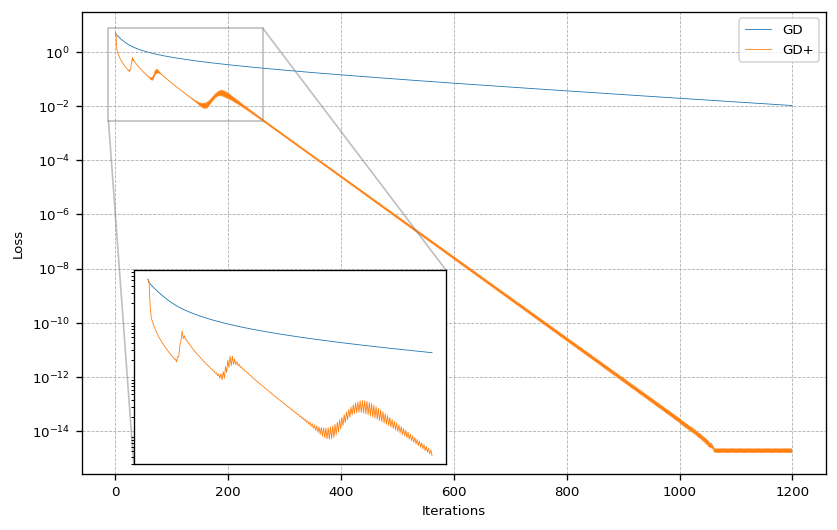
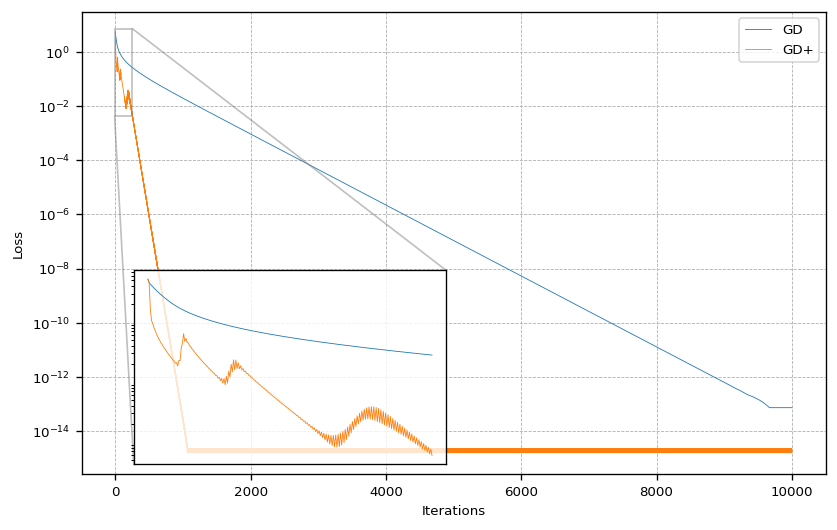
- Added better figures for results section - Removed typos

diff --git a/_posts/2020-12-19-adaptive-learning-rate-method.md b/_posts/2020-12-19-adaptive-learning-rate-method.md
@@ -1,7 +1,7 @@
 ---
 layout: post
 title: "An Adaptive Learning Rate Method for Gradient Descent Algorithms"
-date:   2020-12-19 17:30:00
+date:   2020-12-18 17:30:42
 ---
 
 **TL;DR**: Gradient information can be used to compute adaptive learning rates that allow gradient descent algorithms to converge much faster.
@@ -10,20 +10,18 @@ date:   2020-12-19 17:30:00
 
 ## Introduction 
 
-In this blog post I present an adaptive learning rate method for gradient descent optimization algorithms (to the best of my knowledge, this method has not yet been mentioned in the literature). 
+In this blog post I present an adaptive learning rate method for gradient descent optimization algorithms. To the best of my knowledge, this method has not yet been mentioned in the literature.
 
 The proposed technique uses gradient information that allow to either compute parameter-wise or global adaptive learning rates. In more detail, the learning rate is treated as a differentiable function allowing to propagate the loss information back to the learning rate where it can then be adjusted accordingly.
 
-The method can easily be applied to popular optimization algorithms such as Gradient Descent, Gradient Descent with Momentum, Nestrov Accelerated Gradient, ADAM, to name just a few. In a few simple experiments I show, that these optimization algorithm show better performance when equipped with this adaptive learning rate method compared to fixed learning rate.
+The method can easily be applied to popular optimization algorithms such as Gradient Descent, Gradient Descent with Momentum, Nestrov Accelerated Gradient, or Adam, to name just a few. In a few simple experiments I show, that these optimization algorithms show better performance when equipped with the adaptive learning rate method introduced in this post compared to fixed learning rate.
 
 
 ## Related Work
 
 In recent years many learning rate schedules have been proposed to improve the training of machine learning models. Most of these methods have in common, that they do not take information such as the loss or gradient information into account that is provided by the model during the training process. 
 
-Furthermore, the learning rate of some of these methods approach very small values at the end of the training period such as learning rate methods with exponential decay or one-cycle learning rate policies.
-
-However, such learning rate policies are not very plausible from a biological point of view since the model will not learn new information as well at the end of training as it did at the beginning of training when the learning rate was higher. Such small learning rates prevent the model from reaching better local minima if new information is available. Therefore, such methods work best for a fixed set of data that does not change during training. 
+The learning rate of some of these methods approach very small values at the end of training such as learning rate methods with exponential decay or one-cycle learning rate policies. However, such learning rate policies are not very plausible from a biological point of view since the model will not learn new information as well at the end of training as it did at the beginning of training when the learning rate was higher. Such small learning rates prevent the model from reaching better local minima if new information is available. Therefore, these methods work best for a fixed set of data that does not change during training. 
 
 For this reason, cyclic learning rate policies may be the better option for continuous learning. However, also in the case of cyclic learning rate schedules, it can be hard to find optimal parameters such as the minimal and maximal learning rate or the period length of one cycle.
 
@@ -31,7 +29,7 @@ To overcome these problems, we can use the gradient information provided by the 
 
 ## Method
 
-In this section we derive an adaptive learning rate update scheme for gradient descent optimization algorithms. Stochastic gradient descent computes the gradient of a loss function $$L$$ with respect to the parameters $$\boldsymbol{w}$$. The update rule for each parameter can be written as follows:
+In this section we derive an adaptive learning rate update scheme for gradient descent optimization algorithms. Stochastic gradient descent computes the gradient of a loss function $L$ with respect to the parameters $w$. The update rule for each parameter can be written as follows:
 
 \begin{equation} \label{eq:weight_update}
 w_i^{(t+1)} = w_i^{(t)} - \eta_{i}^{(t)} \frac{dL^{(t)}}{dw_i^{(t)}} 
@@ -58,20 +56,20 @@ Now we can use Equation \eqref{eq:weight_update} to rewrite the right-hand side 
 By substituting the last term of Equation \eqref{eq:dLdeta} with the result of Equation \eqref{eq:dwdeta} we get:
 
 \begin{equation}\label{eq:dLdeta_2}
-    \frac{dL^{(t)}}{d\eta_{i}^{(t-1)}} = -\frac{dL^{(t)}}{dw^{(t)}}\frac{dL^{(t-1)}}{dw_{i}^{(t-1)}}
+    \frac{dL^{(t)}}{d\eta_{i}^{(t-1)}} = -\frac{dL^{(t)}}{dw_i^{(t)}}\frac{dL^{(t-1)}}{dw_{i}^{(t-1)}}
 \end{equation}
 
 Now Equation \eqref{eq:dLdeta_2} can be inserted into Equation \eqref{eq:learning_rate_update} to get the final result which is an update rule that allows to compute parameter-wise adaptive learning rates
 
 \begin{equation}\label{eq:learning_rate_update_2}
-    \eta_{i}^{(t)} = \eta_{i}^{(t-1)} + \alpha \frac{dL^{(t)}}{dw^{(t)}}\frac{dL^{(t-1)}}{dw_{i}^{(t-1)}}
+    \eta_{i}^{(t)} = \eta_{i}^{(t-1)} + \alpha \frac{dL^{(t)}}{dw_i^{(t)}}\frac{dL^{(t-1)}}{dw_{i}^{(t-1)}}
 \end{equation}
 
 Here, we can make several interesting observations. The update rule uses the gradients of the current and last time step to determine the next learning rate. 
 
 The product of the old and the new gradient allows for two different cases. If both gradients are either positive or negative, the result is positive resulting in an increase of the learning rate for the next weight update. This seems to make sense since subsequent gradients with the same sign indicate that there is a clear direction within the loss landscape and that the error is probably moving towards a local minimum. 
 
-On the other hand, successive gradients with different signs may indicate that there is no clear direction for the gradient descent in the loss landscape. In this case, the product of both gradients is negative causing the learning rate for the considered parameter to decrease. At this point it is important to note that this method allows the learning rate to become negative. Decreasing the learning rate allows a more careful gradient descent or even an ascent if the learning rater becomes negative. This can help to escape local minima.
+On the other hand, successive gradients with different signs may indicate that there is no clear direction for the gradient descent in the loss landscape. In this case, the product of both gradients is negative causing the learning rate for the considered parameter to decrease. At this point it is important to note that this method allows the learning rate to become negative. Decreasing the learning rate allows a more careful gradient descent or even an ascent if the learning rater becomes negative. This may be beneficial to escape from local minima.
 
 By inserting Equation \eqref{eq:learning_rate_update_2} into Equation \eqref{eq:weight_update} we obtain the following expression for the weight update rule with adaptive learning rate:
 
@@ -81,7 +79,7 @@ By inserting Equation \eqref{eq:learning_rate_update_2} into Equation \eqref{eq:
 
 As can be seen, the newly introduced parameter $$\alpha$$ determines the effect of the correction term on the weight update.
 
-With the derivation above it is also possible to derive an update scheme for a global learning rate $$\eta^{(t)}$$ that is the same for all parameters. In this case we use the gradient information of all parameters to compute a single learning rate. To do this, we can write the last term in Equation \eqref{eq:learning_rate_update} as follows
+It is also possible to derive an update scheme for a learning rate $$\eta^{(t)}$$ that is the same for all parameters. In this case we pool the gradient information of all parameters to compute a single global learning rate. To do this, we can write the last term of Equation \eqref{eq:learning_rate_update} as follows
 
 \begin{equation}\label{eq:dLdeta_global}
     \frac{dL^{(t)}}{d\eta^{(t-1)}} = \frac{1}{||\Omega||} \sum_{i \in \Omega} \frac{dL^{(t)}}{dw_{i}^{(t)}}\frac{dw_{i}^{(t)}}{d\eta^{(t-1)}}
@@ -99,13 +97,11 @@ By inserting Equation \eqref{eq:dLdeta_global_2} into Equation \eqref{eq:learnin
     \eta^{(t)} = \eta^{(t-1)} + \alpha \frac{1}{||\Omega||} \sum_{i \in \Omega} \frac{dL^{(t)}}{dw_{i}^{(t)}}\frac{dL^{(t-1)}}{dw_{i}^{(t-1)}}
 \end{equation}
 
-We can now insert Equation \eqref{eq:learning_rate_update_global} into Equation \eqref{eq:weight_update} to obtain the weight update rule for a global adaptive learning rate
+We can now insert Equation \eqref{eq:learning_rate_update_global} into Equation \eqref{eq:weight_update} to obtain the weight update rule for a global adaptive learning rate:
 
 \begin{equation}\label{eq:weight_update_global}
     w_i^{(t+1)} = w_i^{(t)} - \eta^{(t-1)}\frac{dL^{(t)}}{dw_i^{(t)}} - \frac{\alpha}{||\Omega||}\frac{dL^{(t)}}{dw_i^{(t)}} \sum_{j \in \Omega} \frac{dL^{(t)}}{dw_{j}^{(t)}}\frac{dL^{(t-1)}}{dw_{j}^{(t-1)}} 
 \end{equation}
-
-As we can see, the proposed method uses gradient information provided by the current and past time step to determine a learning rate for the next gradient descent step. The method allows to compute an adaptive global learning rate that determines the adjustment of all weights or parameter-wise adaptive learning rates. Moreover, the proposed method for determining adaptive learning rates is very easy to implement.
 
 ## Implementation
 
@@ -145,12 +141,6 @@ def gradient_descent():
 Given the gradient descent optimizer as implemented above, we can now add the adaptive learning rate method to the algorithm by caching the new gradients to determine the new learning rate based on the last two gradients and then performing gradient descent. Afterwards, the new gradients are cached for the next optimization step.
 
 ```python
-eta_x = eta 
-eta_y = eta 
-
-dx_old = 0.0
-dy_old = 0.0
-
 def gradient_descent():
     dx = dfdx(x, y)
     dy = dfdy(x, y)
@@ -165,7 +155,7 @@ def gradient_descent():
     dy_old = dy
 ```
 
-The next example shows the integration of an adaptive learning step in the case of the Adam optimizer. The implementation steps are the same.
+The next example shows the integration of an adaptive learning rate for the Adam optimizer. The implementation steps are the same.
 
 ```python
 def gradient_descent_adam():
@@ -208,42 +198,38 @@ To better understand the behavior of these methods we can visualize the gradient
 
  $$f(x,y) = (1.5 - x + xy)^2 + (2.25 - x + xy^2)^2 + (2.625 - x + xy^3)^2$$
 
-Beale's function has a global minimum at $$(x,y)=(3,0.5)$$ which is indicated by a black star in the results section.
-
-In order to determine an optimal learning rate $$\eta$$ as well as the hyperparameter $$\alpha$$ for each optimizer, a grid search was performed beforehand. The optimal hyperparameter is determined by how fast the global minimum is reached. To measure the speed of convergence of different optimizers I used a loss function that is defined by the Euclidean distance to the global minimum.
+In order to determine an optimal learning rate $$\eta$$ as well as the hyperparameter $$\alpha$$ for each optimizer, a grid search was performed beforehand. The optimal hyperparameter is determined by how fast the global minimum is reached. To measure the speed of convergence of different optimizers I used a loss function that is defined as the Euclidean distance to the global minimum.The following table shows the used hyperparameters:
 
 | Hyperparameter | GD | GD+ | GDM | GDM+ | NAG | NAG+ | Adam | Adam+ |
 |----------------|----|-----|-----|------|-----|------|------|-------|
 | $$\eta$$ | 0.01 | 0.01 | 0.015 | 0.01 | 0.006 | 0.006 | 0.0005 | 0.0005 |
 | $$\alpha$$ | 0 | 1e-4 | 0 | 1e-5 | 0 | 1e-6 | 0 | 1e-8 |
 
-Please note, that the initial learning rate for all optimizers with adaptive learning rate are equal or smaller compared to the standard algorithm.
-
-For other hyperparameters, frequently used values found in the literature were used:
+Please note, that the initial learning rate for all optimizers with adaptive learning rate are equal or smaller compared to the standard algorithm. For other hyperparameters, frequently used values found in the literature were used:
 
 $$\gamma=0.5$$, $$\beta_1=0.9$$, $$\beta_2=0.99$$, $$\epsilon=1e-8$$
 
 ## Results
 
-For better comparability, results are shown for one optimizer at a time.
+For better comparability, results are shown for one optimizer at a time. Beale's function has a global minimum at $$(x,y)=(3,0.5)$$ which is indicated by a black star in the results section.
 
 ### Gradient Descent
 
-The following figure shows the behavior of the classic Gradient Descent (GD) algorithm. We see that the algorithms equipped with an adaptive learning rate (GD+) approaches the global minimum on a similar path but with much larger steps. 
+The following figure shows the behavior of the classic Gradient Descent (GD) algorithm. We see that the algorithms equipped with an adaptive learning rate (GD+) approaches the global minimum on a similar path but with much larger steps. Near the global minimum, larger oscillations are observed at the beginning of the optimization for the optimizer with adaptive learning rate.
 
 ![](/assets/images/post6/gd_gd.png)
 
-This behavior is also reflected in the loss as apparent in the next figure. The loss shows that the adaptive learning rate not only allows to approach the global minimum much faster, it also gets about an order of magnitude closer after convergence.
+This behavior is also reflected in the loss as the next figure shows. The loss shows that the adaptive learning rate not only allows to approach the global minimum much faster, it also gets about an order of magnitude closer after convergence.
 
 ![](/assets/images/post6/loss_gd.png)
 
 ### Gradient Descent with Momentum
 
-In the case with momentum, the results behave similarly to those for the classic gradient descent. Due to the adaptive learning rate, the global minimum is reached in a more direct way and with larger steps.
+In the case with momentum, the results behave similarly to those for the classic gradient descent. The optimizer with adaptive learning rates reaches the global minimum in a more direct way and and with larger steps.
 
 ![](/assets/images/post6/gd_gdm.png)
 
-Here we see again, that the optimizer equipped with an adaptive learning rate converges much faster and also gets much closer to the global minimum.
+Here we see again, that the optimizer equipped with an adaptive learning rate converges much faster and also gets closer to the global minimum.
 
 ![](/assets/images/post6/loss_gdm.png)
 
@@ -253,7 +239,7 @@ In case of the Nestrov Accelerated Gradient (NAG) optimizer with a fixed learnin
 
 ![](/assets/images/post6/gd_nag.png)
 
-Even thought the gradient descent with NAG+ does not approach the minimum right from the start, it converges with a slight delay much faster requiring only half the steps to converge compared to NAG.
+Even thought the gradient descent with NAG+ does not approach the minimum right from the start, it converges with a slight delay much faster requiring only about half the steps to converge compared to NAG.
 
 ![](/assets/images/post6/loss_nag.png)
 
